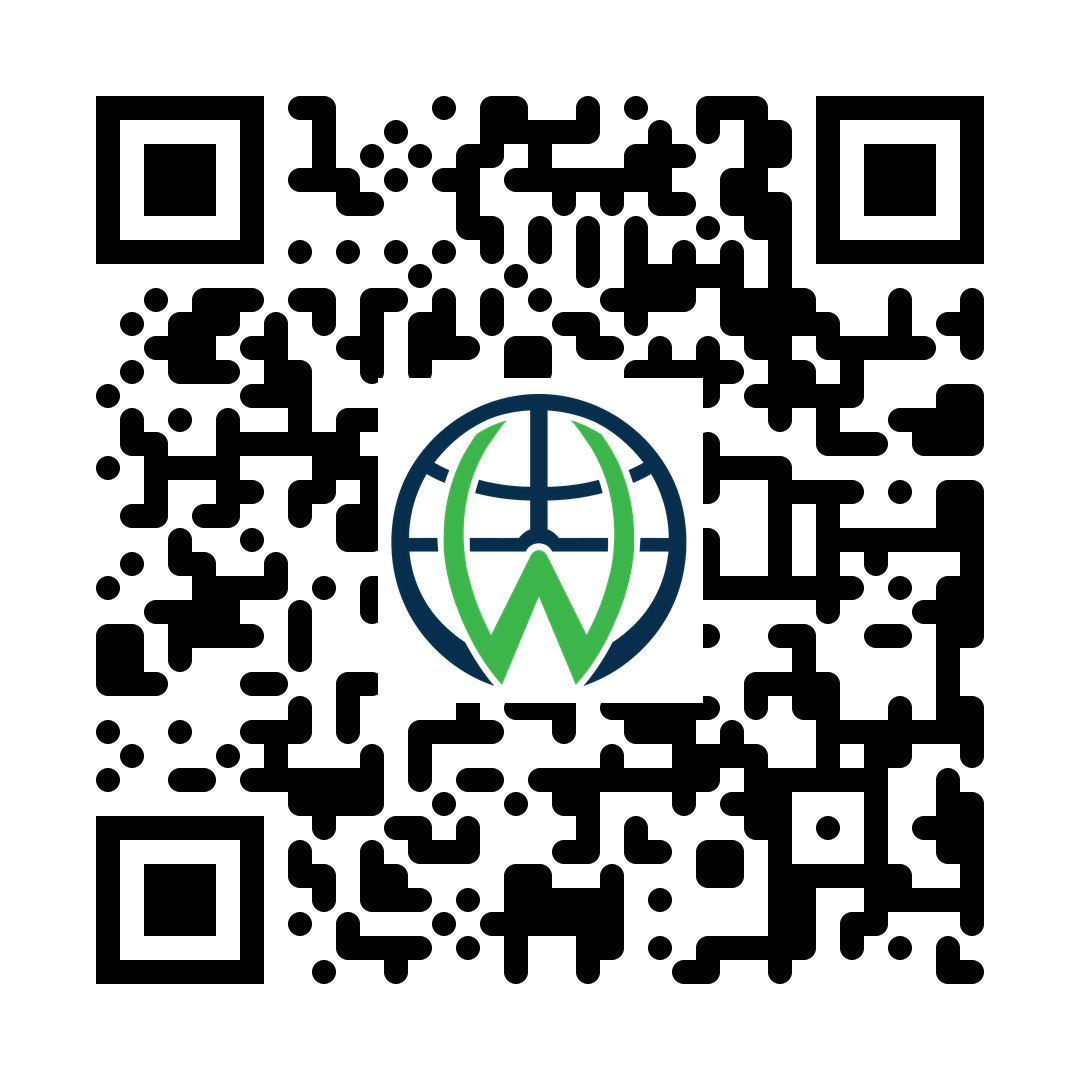
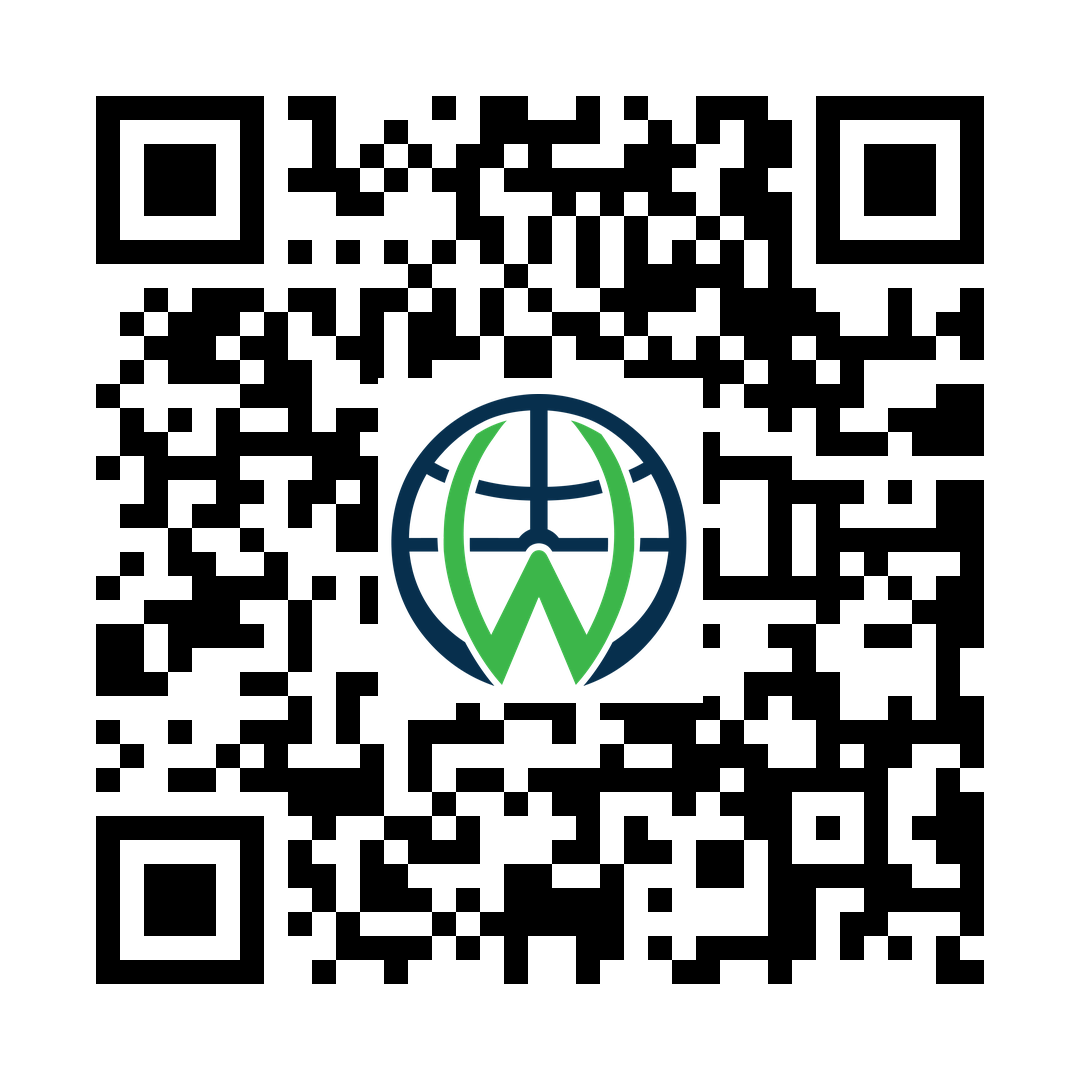
tweak: sharp square QR modules (from rounded)

diff --git a/scripts/make_qr.py b/scripts/make_qr.py
@@ -14,7 +14,7 @@ import os
 
 import qrcode
 from qrcode.image.styledpil import StyledPilImage
-from qrcode.image.styles.moduledrawers.pil import RoundedModuleDrawer
+from qrcode.image.styles.moduledrawers.pil import SquareModuleDrawer
 from qrcode.image.styles.colormasks import SolidFillColorMask
 from PIL import Image, ImageDraw
 
@@ -35,7 +35,7 @@ def make_qr(url: str, out_path: str) -> None:
     qr.make(fit=True)
     img = qr.make_image(
         image_factory=StyledPilImage,
-        module_drawer=RoundedModuleDrawer(),
+        module_drawer=SquareModuleDrawer(),
         color_mask=SolidFillColorMask(front_color=(0, 0, 0), back_color=(255, 255, 255)),
     ).convert("RGBA")
     w, h = img.size
